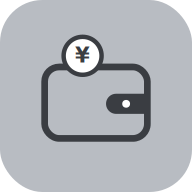
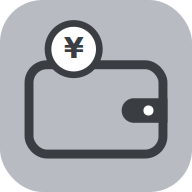
Add files via upload

Changed region(s): [[0.125, 0.0938, 0.875, 0.8438]]

diff --git a/sw.js b/sw.js
@@ -1,4 +1,4 @@
-const CACHE = 'kakeibo-v11';
+const CACHE = 'kakeibo-v12';
 const ASSETS = ['./index.html', './manifest.json', './icon-192.png', './icon-512.png'];
 
 self.addEventListener('install', e => {